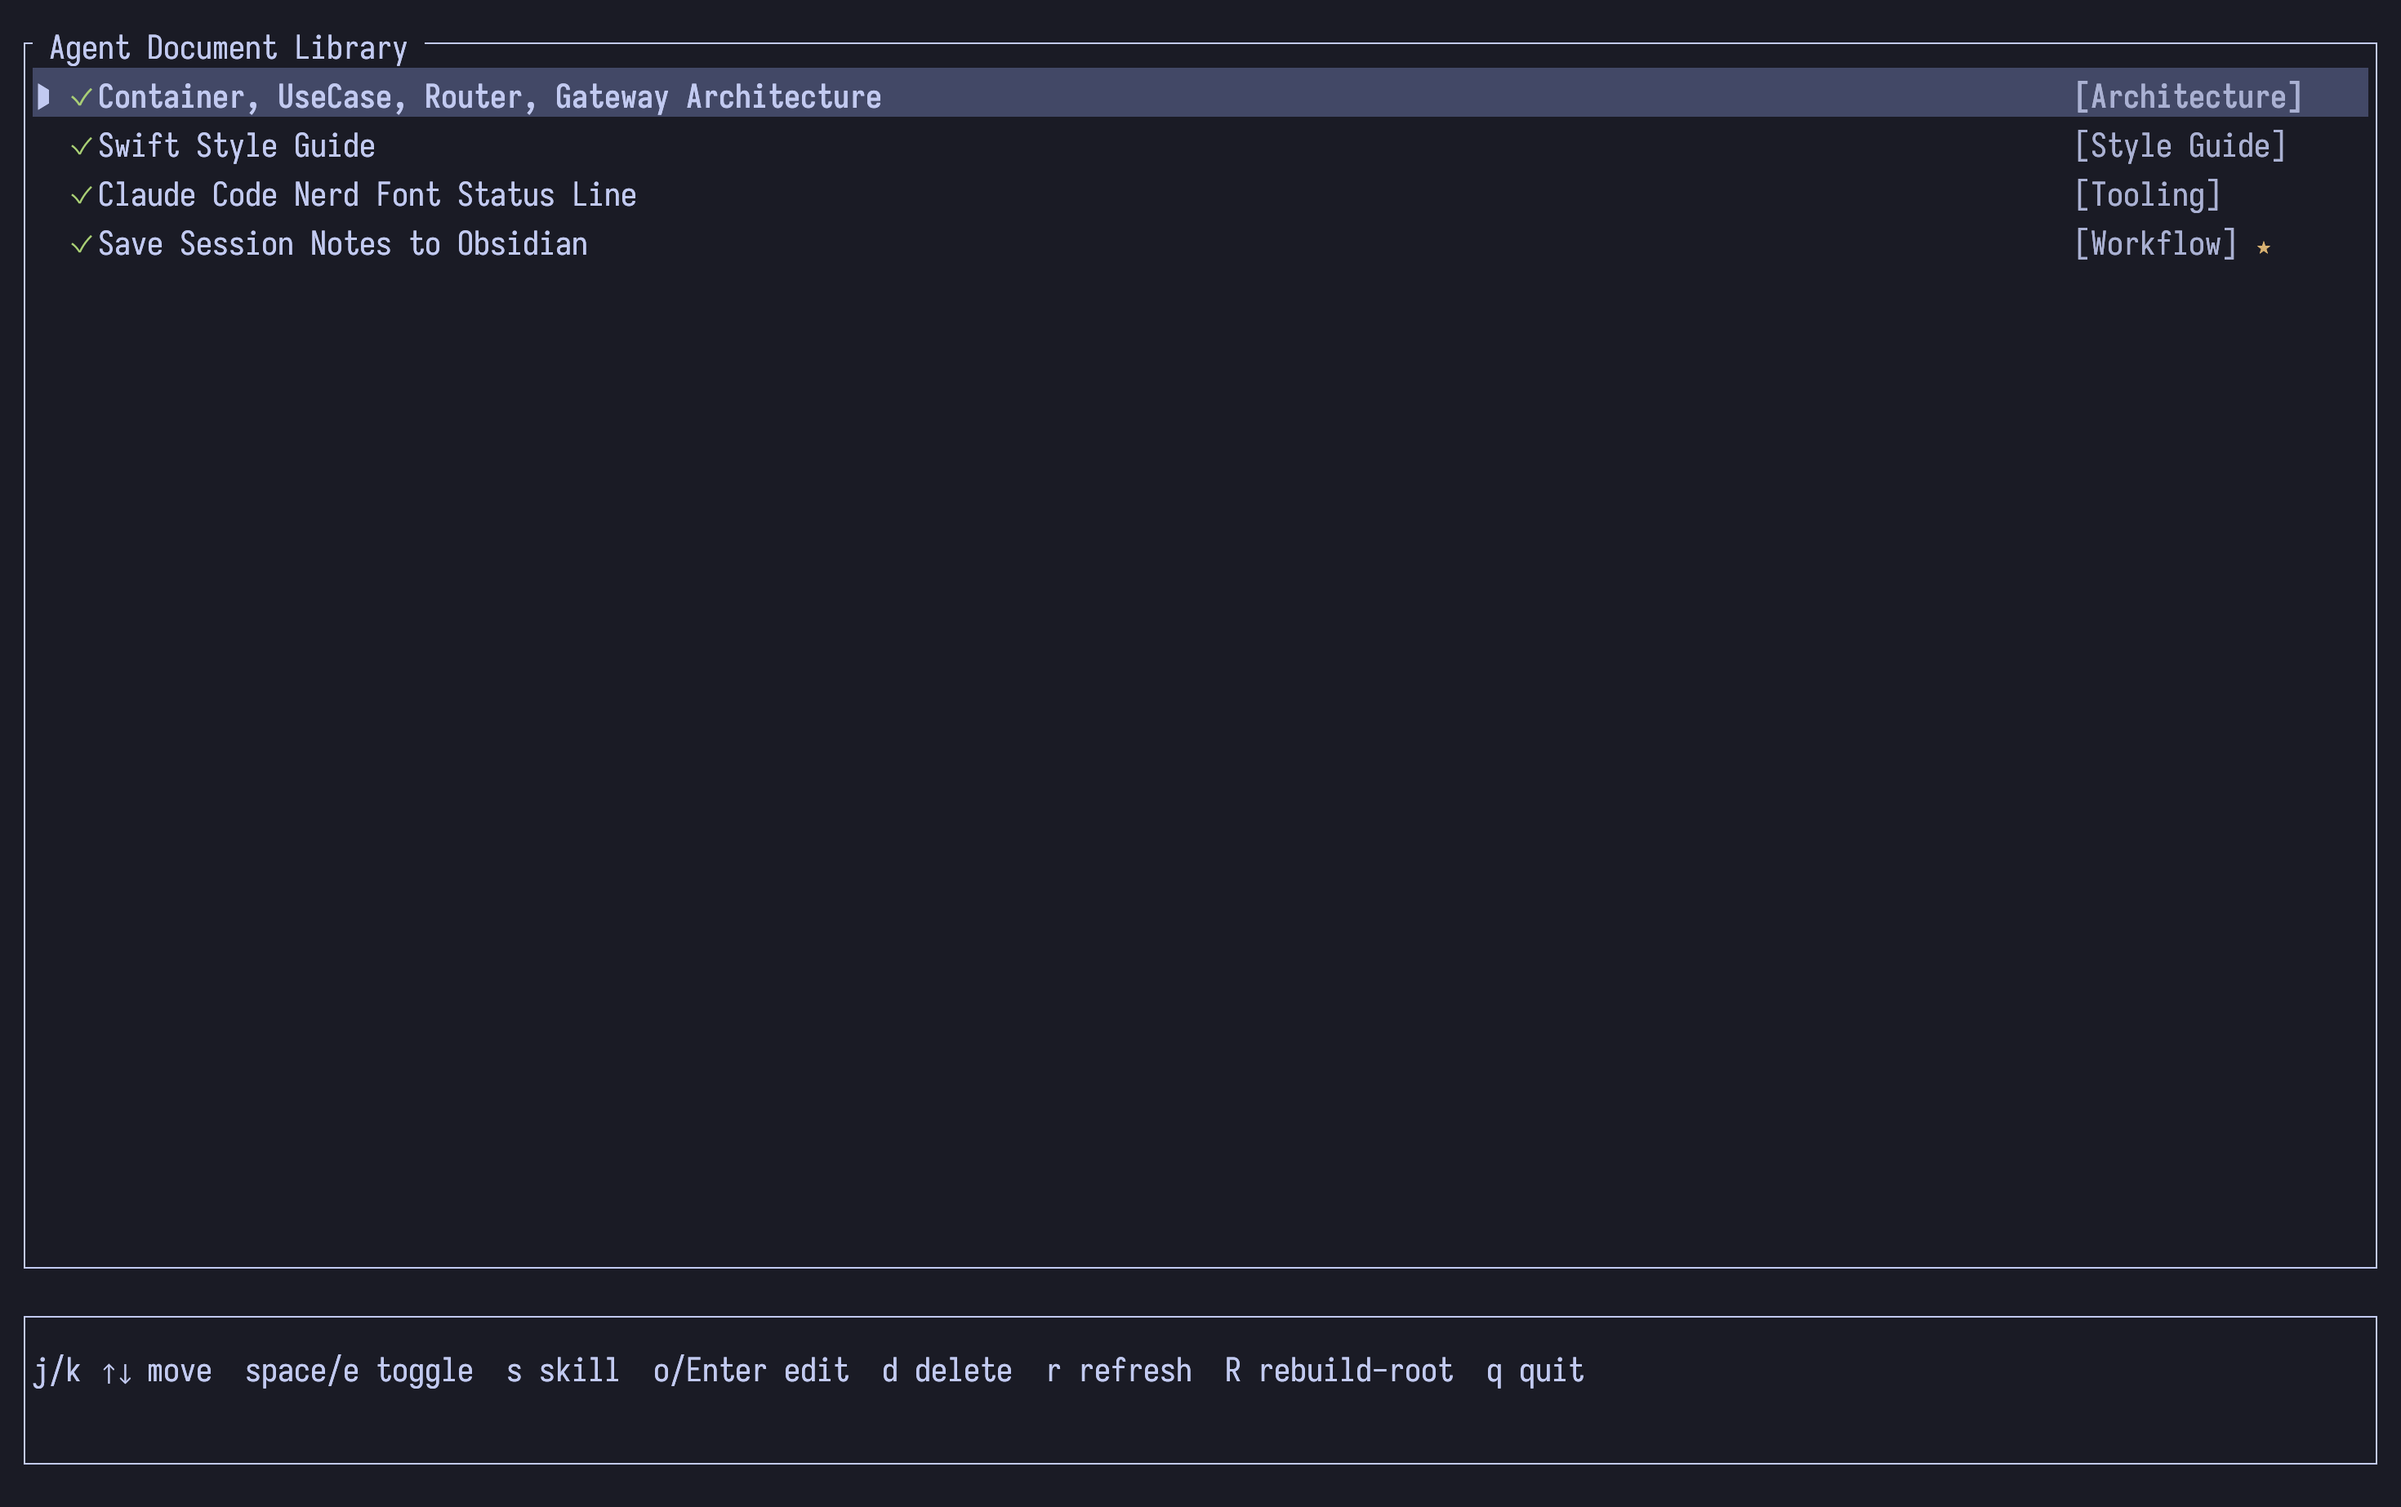
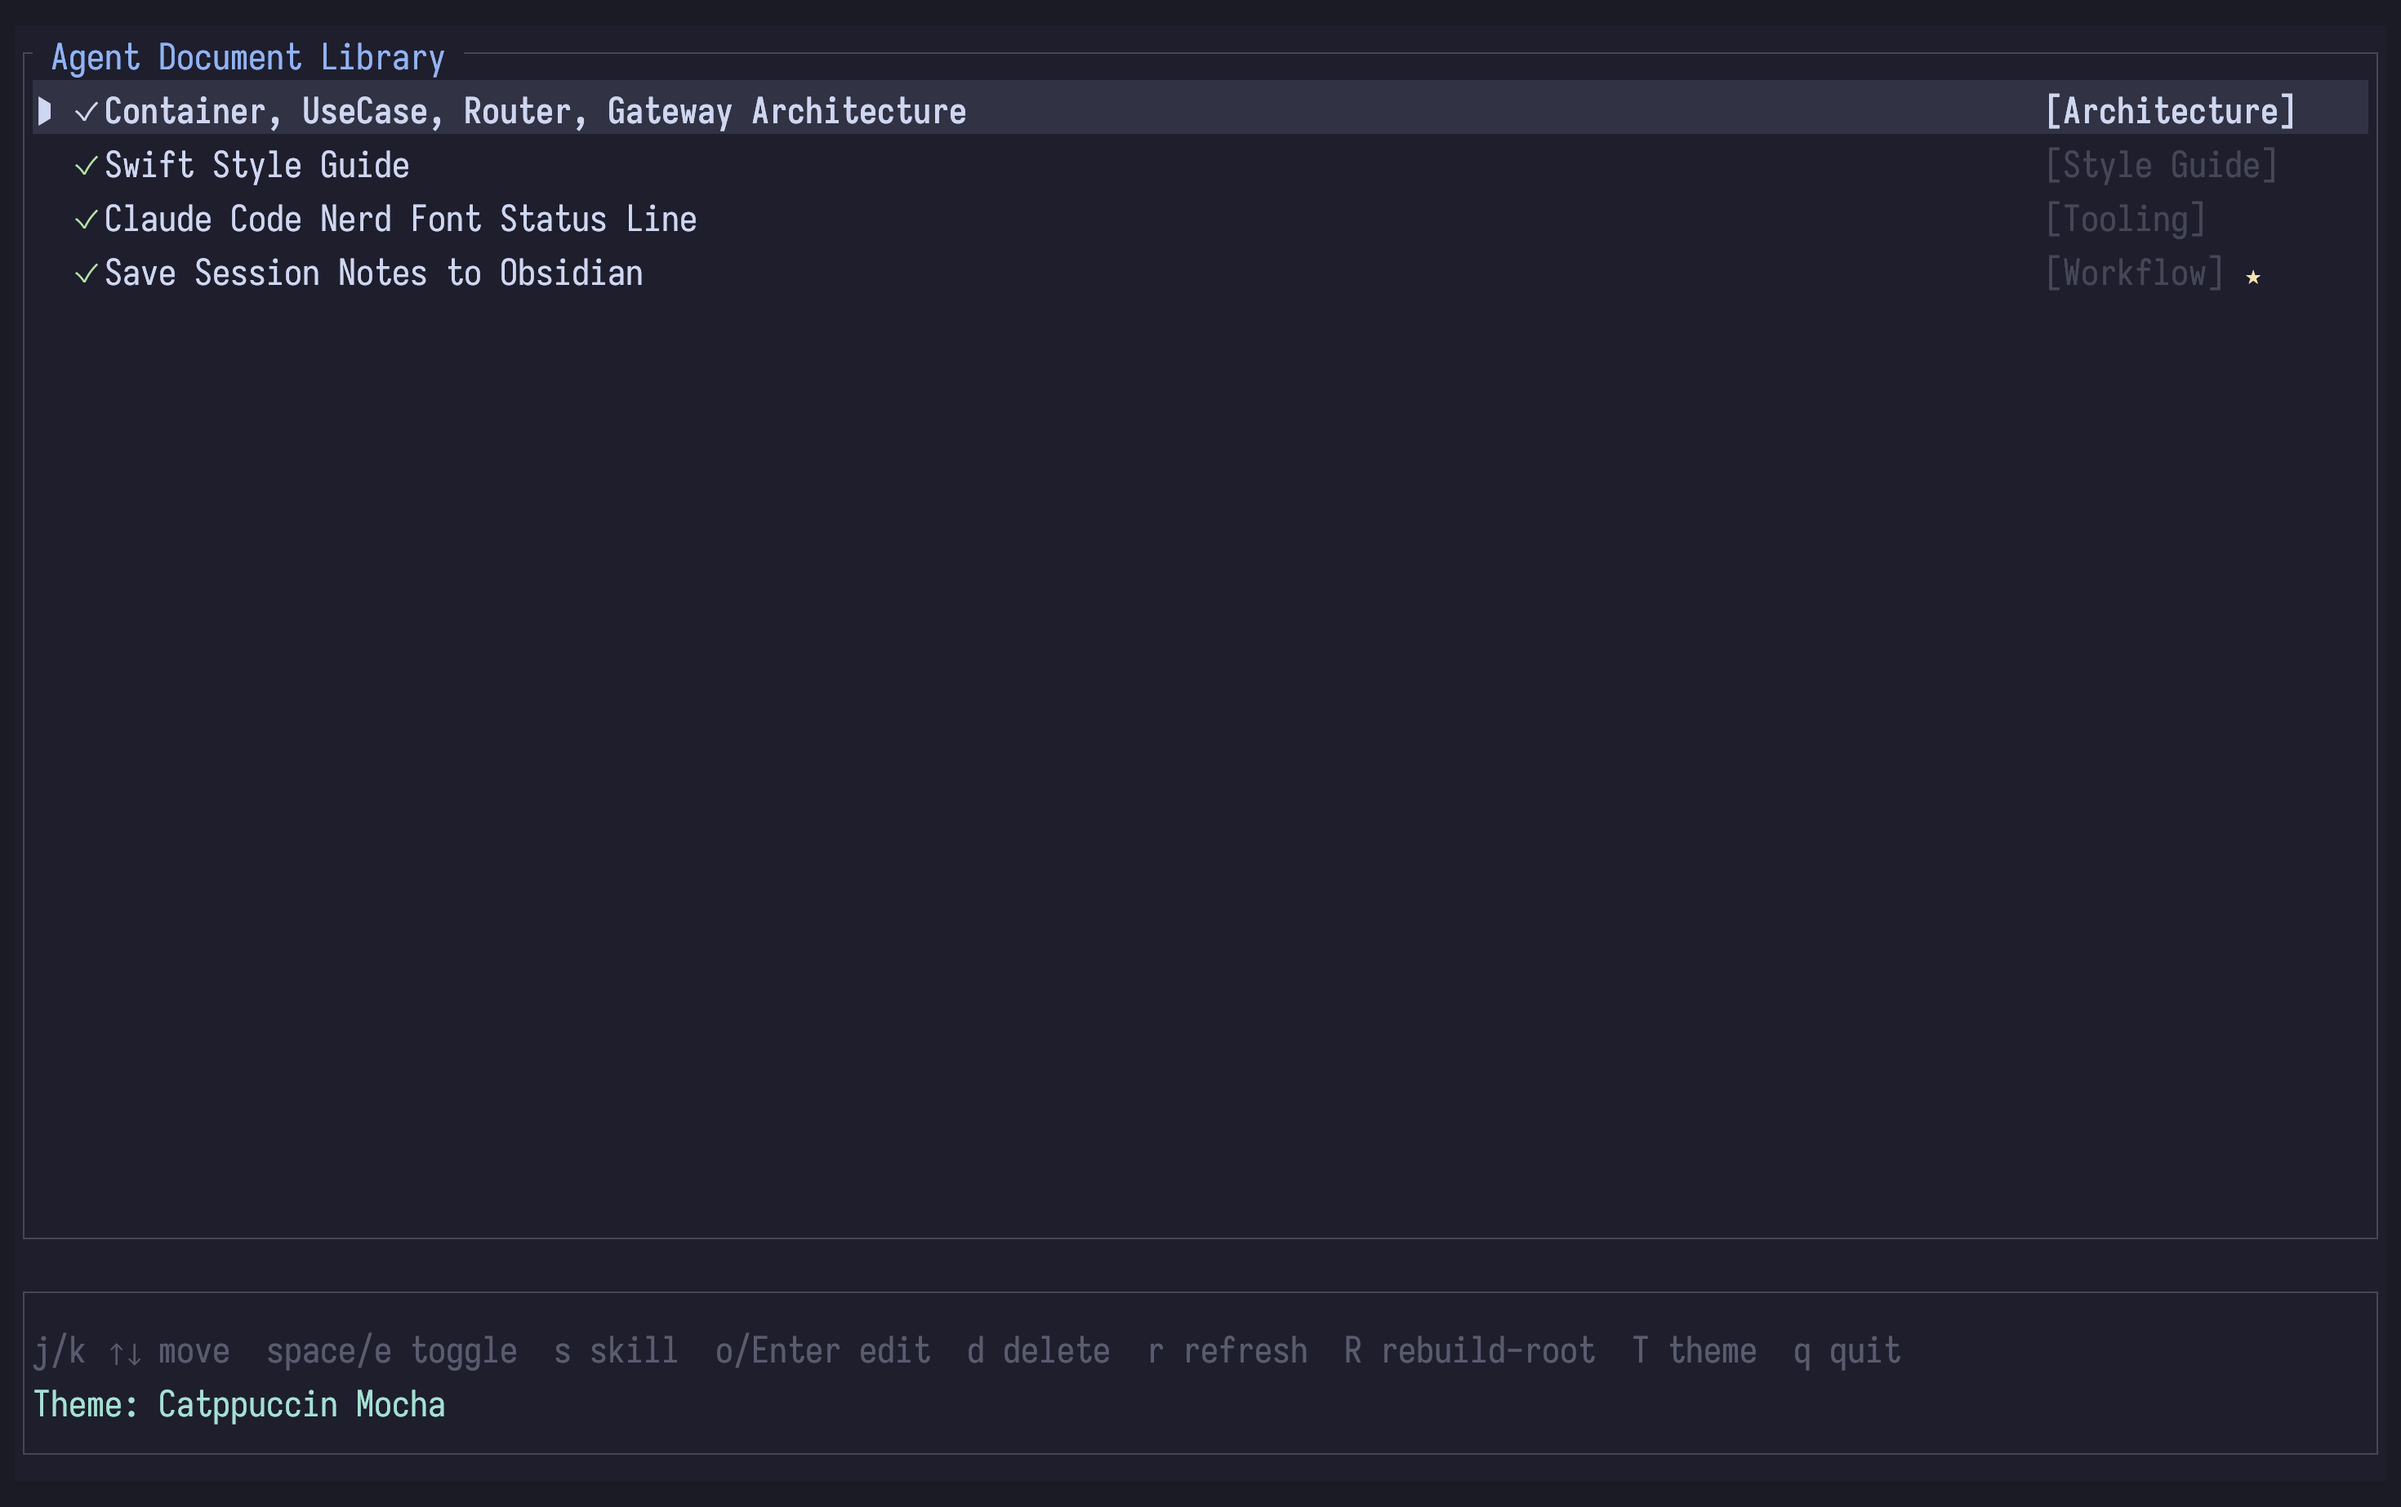
Updates
Updated README
Updated Screenshot
Added config support.

diff --git a/src/prefs.rs b/src/prefs.rs
@@ -1,0 +1,77 @@
+use std::path::Path;
+
+use serde::{Deserialize, Serialize};
+
+use crate::error::AppError;
+
+#[derive(Debug, Default, Serialize, Deserialize)]
+pub struct Preferences {
+    pub theme: Option<String>,
+}
+
+impl Preferences {
+    pub fn load(base_dir: &Path) -> Self {
+        let path = base_dir.join("config.toml");
+        let Ok(content) = std::fs::read_to_string(&path) else {
+            return Self::default();
+        };
+        toml::from_str(&content).unwrap_or_else(|e| {
+            eprintln!("warning: could not parse config.toml: {e}");
+            Self::default()
+        })
+    }
+
+    pub fn save(&self, base_dir: &Path) -> Result<(), AppError> {
+        std::fs::create_dir_all(base_dir)?;
+        let content = toml::to_string(self).map_err(|e| AppError::Parse(e.to_string()))?;
+        let path = base_dir.join("config.toml");
+        let tmp = base_dir.join("config.toml.tmp");
+        std::fs::write(&tmp, content)?;
+        std::fs::rename(&tmp, &path)?;
+        Ok(())
+    }
+}
+
+#[cfg(test)]
+mod tests {
+    use super::*;
+
+    fn tempdir() -> std::path::PathBuf {
+        use std::sync::atomic::{AtomicU64, Ordering};
+        static COUNTER: AtomicU64 = AtomicU64::new(0);
+        let n = COUNTER.fetch_add(1, Ordering::Relaxed);
+        let dir = std::env::temp_dir()
+            .join(format!("agent-library-prefs-test-{}-{n}", std::process::id()));
+        std::fs::create_dir_all(&dir).unwrap();
+        dir
+    }
+
+    #[test]
+    fn missing_file_returns_default() {
+        let dir = tempdir();
+        let prefs = Preferences::load(&dir);
+        assert!(prefs.theme.is_none());
+    }
+
+    #[test]
+    fn save_and_reload() {
+        let dir = tempdir();
+        let prefs = Preferences { theme: Some("Catppuccin Latte".into()) };
+        prefs.save(&dir).unwrap();
+
+        let loaded = Preferences::load(&dir);
+        assert_eq!(loaded.theme.as_deref(), Some("Catppuccin Latte"));
+    }
+
+    #[test]
+    fn config_toml_is_valid_toml() {
+        let dir = tempdir();
+        let prefs = Preferences { theme: Some("Catppuccin Mocha".into()) };
+        prefs.save(&dir).unwrap();
+
+        let raw = std::fs::read_to_string(dir.join("config.toml")).unwrap();
+        assert!(raw.contains("Catppuccin Mocha"));
+        // Must round-trip through the toml crate without error
+        let _: Preferences = toml::from_str(&raw).unwrap();
+    }
+}

diff --git a/src/tui/app.rs b/src/tui/app.rs
@@ -5,6 +5,7 @@ use crate::error::AppError;
 use crate::store::DocumentStore;
 
 use super::theme::{NamedTheme, all_themes};
+use crate::prefs::Preferences;
 
 #[derive(Debug, PartialEq)]
 pub enum Mode {
@@ -29,7 +30,10 @@ impl App {
     pub fn new(store: DocumentStore, initial_theme: Option<&str>) -> Result<Self, AppError> {
         let documents = store.load_all()?;
         let themes = all_themes(&store.base_dir);
-        let theme_idx = initial_theme
+        let prefs = Preferences::load(&store.base_dir);
+        // CLI flag beats saved preference; saved preference beats index 0.
+        let theme_name = initial_theme.or(prefs.theme.as_deref());
+        let theme_idx = theme_name
             .and_then(|name| {
                 themes
                     .iter()
@@ -181,10 +185,14 @@ impl App {
         self.mode = Mode::Normal;
     }
 
-    pub fn apply_selected_theme(&mut self) {
+    pub fn apply_selected_theme(&mut self) -> Result<(), AppError> {
         self.theme_idx = self.picker_cursor;
         self.mode = Mode::Normal;
-        self.status_msg = Some(format!("Theme: {}", self.themes[self.theme_idx].name));
+        let name = self.themes[self.theme_idx].name.clone();
+        let prefs = Preferences { theme: Some(name.clone()) };
+        prefs.save(&self.store.base_dir)?;
+        self.status_msg = Some(format!("Theme: {name}"));
+        Ok(())
     }
 
     pub fn picker_up(&mut self) {

diff --git a/src/tui/mod.rs b/src/tui/mod.rs
@@ -104,7 +104,9 @@ fn run_loop(
             }
             AppEvent::OpenEditor => {
                 if app.mode == Mode::ThemePicker {
-                    app.apply_selected_theme();
+                    if let Err(e) = app.apply_selected_theme() {
+                        app.status_msg = Some(format!("Error saving prefs: {e}"));
+                    }
                 } else if app.mode == Mode::Normal {
                     guard.suspend().map_err(AppError::Io)?;
                     let edit_result = app.open_in_editor();
@@ -142,7 +144,9 @@ fn run_loop(
             }
             AppEvent::Confirm => {
                 if app.mode == Mode::ThemePicker {
-                    app.apply_selected_theme();
+                    if let Err(e) = app.apply_selected_theme() {
+                        app.status_msg = Some(format!("Error saving prefs: {e}"));
+                    }
                 } else if app.mode == Mode::ConfirmDelete
                     && let Err(e) = app.confirm_delete()
                 {

diff --git a/src/main.rs b/src/main.rs
@@ -3,6 +3,7 @@ mod config;
 mod document;
 mod error;
 mod mcp;
+mod prefs;
 mod seeds;
 mod store;
 mod tui;

diff --git a/README.md b/README.md
@@ -38,18 +38,24 @@ nix develop git+https://codeberg.org/westongpt/agent-library
 
 ## Quick start
 
-1. Initialize the library with seed documents:
+1. Initialize the library with seed documents and themes:
 
 ```sh
 agent-library init
 ```
 
-This creates `~/.config/agent-library/` (or `$XDG_CONFIG_HOME/agent-library/` on Linux, or whatever `$AGENT_LIBRARY_PATH` points to) with three example documents and a `ROOT.md` index.
+This creates `~/.config/agent-library/` (or `$XDG_CONFIG_HOME/agent-library/` on Linux, or whatever `$AGENT_LIBRARY_PATH` points to) with three example documents, a `ROOT.md` index, and four Catppuccin theme files.
 
 2. Manage documents with the TUI:
 
 ```sh
 agent-library tui
+```
+
+Start with a specific theme using `--theme`:
+
+```sh
+agent-library tui --theme "Catppuccin Latte"
 ```
 
 3. Register the MCP server with Claude Code:
@@ -71,6 +77,15 @@ Override on any platform with the `AGENT_LIBRARY_PATH` environment variable:
 export AGENT_LIBRARY_PATH=/path/to/my/documents
 ```
 
+The library directory contains:
+
+```
+<library>/
+├── documents/        # markdown documents, organized by task type
+├── themes/           # base16 YAML theme files
+└── ROOT.md           # auto-generated index (never edit by hand)
+```
+
 ## TUI controls
 
 | Key | Action |
@@ -83,9 +98,62 @@ export AGENT_LIBRARY_PATH=/path/to/my/documents
 | `d` | Delete (prompts for confirmation) |
 | `r` | Refresh from disk |
 | `R` | Rebuild `ROOT.md` |
+| `T` | Open theme picker |
 | `q` / `Ctrl-c` | Quit |
 
 Skill documents are marked with a `★` in the list. The bottom bar always shows the keybindings; status feedback appears on the line below it.
+
+### Theme picker
+
+Press `T` to open the theme picker. Navigate with `j`/`k`, confirm with `Enter`, cancel with `Esc`. The selection is session-only — use `--theme` to set a default on launch.
+
+## Themes
+
+The TUI uses [base16](https://github.com/chriskempson/base16) themes. Four [Catppuccin](https://github.com/catppuccin/catppuccin) variants are bundled:
+
+| Theme | Style |
+|-------|-------|
+| Catppuccin Mocha | Dark (default) |
+| Catppuccin Macchiato | Dark |
+| Catppuccin Frappe | Medium dark |
+| Catppuccin Latte | Light |
+
+Theme files live in `<library>/themes/` as standard base16 YAML. You can edit or delete the bundled themes, and add your own — any `*.yaml` or `*.yml` file in that directory will appear in the picker.
+
+**Custom theme format:**
+
+```yaml
+scheme: "My Theme"
+author: "you"
+base00: "1e1e2e"   # background
+base01: "181825"   # lighter background
+base02: "313244"   # selection background
+base03: "45475a"   # comments / subtle text
+base04: "585b70"   # dark foreground
+base05: "cdd6f4"   # default foreground
+base06: "f5e0dc"   # light foreground
+base07: "b4befe"   # light background
+base08: "f38ba8"   # red (disabled, errors)
+base09: "fab387"   # peach (constants)
+base0a: "f9e2af"   # yellow (skills ★)
+base0b: "a6e3a1"   # green (enabled)
+base0c: "94e2d5"   # teal (status messages)
+base0d: "89b4fa"   # blue (headings)
+base0e: "cba6f7"   # mauve (keywords)
+base0f: "f2cdcd"   # flamingo (deprecated)
+```
+
+To restore the bundled themes after editing or deleting them:
+
+```sh
+agent-library init --seed-themes
+```
+
+To re-add the seed documents to an existing library:
+
+```sh
+agent-library init --seed-documents
+```
 
 ## MCP tools
 

diff --git a/CLAUDE.md b/CLAUDE.md
@@ -67,7 +67,8 @@ src/
 ├── config.rs        — resolve_library_path() with platform/env logic
 ├── error.rs         — AppError enum
 ├── document.rs      — Document struct, front-matter parser, slug generation
-├── seeds.rs         — embedded seed document content
+├── prefs.rs         — Preferences struct: load/save config.toml
+├── seeds.rs         — embedded seed document content and theme YAML
 ├── store.rs         — DocumentStore: load_all, save_document, update_document, regenerate_root
 ├── mcp/
 │   ├── mod.rs       — stdio JSON-RPC read loop (newline-delimited, flush after every write)
@@ -86,7 +87,8 @@ src/
 |-------|---------|
 | `clap` | CLI argument parsing |
 | `serde` + `serde_json` | JSON serialization (MCP protocol) |
-| `serde_yml` | YAML front-matter parsing (`serde_yaml` is deprecated — do not use it) |
+| `serde_yaml_ng` | YAML front-matter and theme file parsing (`serde_yaml` is deprecated — do not use it) |
+| `toml` | Preferences serialization (`config.toml`) |
 | `ratatui` + `crossterm` | Terminal UI |
 
 No async runtime. MCP stdio is synchronous; the TUI uses crossterm's blocking event reads.
